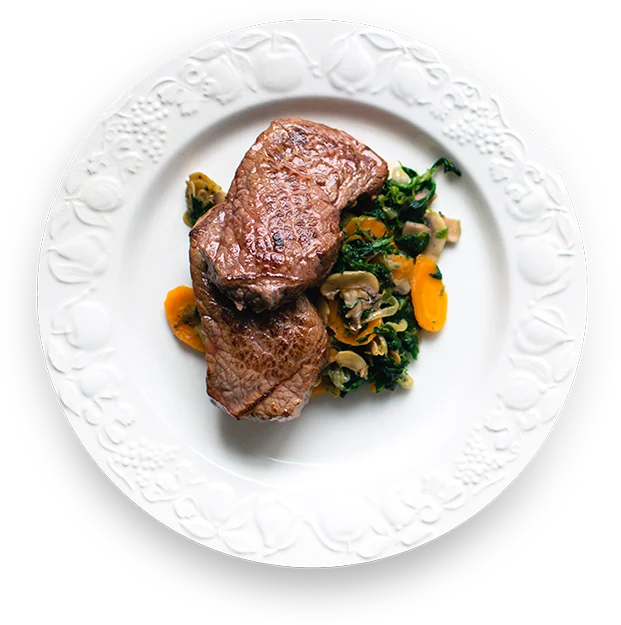
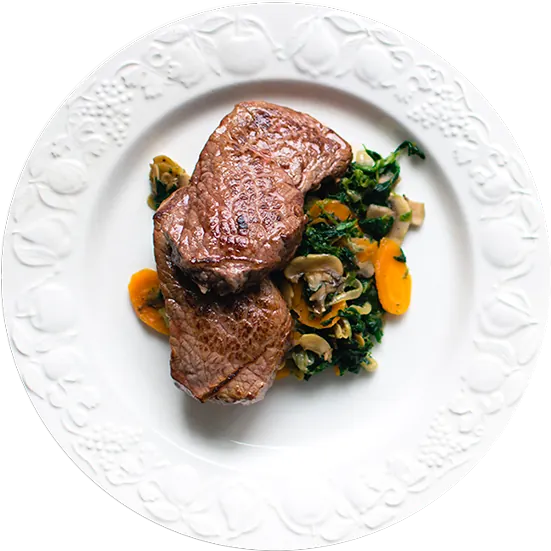
refactor: correction of comments in the code and properties of the about section

diff --git a/css/style.css b/css/style.css
@@ -53,7 +53,7 @@ html {
 
 .logo-container {
   margin-right: auto;
-  align-items: center;  
+  align-items: center;
   display: flex;
 }
 
@@ -233,90 +233,64 @@ html {
 /******************************/
 
 .about-section {
-  background: url('../gallery/banners/about-banner.webp');
-  background: url('../gallery/banners/about-banner.jpg');
+  background: url('../gallery/banners/about-banner.png');
   background-size: cover;
-  padding-top: 5.6rem;
+  padding-top: 7.6rem;
+  padding-left: 29rem;
+  width: 160rem;
   height: 71rem;
-  display: grid;
-  grid-template-columns: 1fr 1.2fr;
+  display: inline-flex;
+  justify-content: flex-start;
+  box-shadow: inset 0 0 6rem rgb(0, 0, 0, 0.1);
+  position: relative;
 }
 
-.left-column {
-  padding-top: 4.2rem;
-  padding-left: 28rem;
+.about-section:before {
+  content: '';
+  width: 100%;
+  height: 100%;
+  top: 0;
+  left: 0;
+  position: absolute;
+  background: linear-gradient(to top left, rgba(85, 85, 85, 0.2) -100%, transparent 70%);
+}
+
+.our-mission {
+  position: relative;
+  width: 42rem;
+  padding-top: 2.2rem;
   display: flex;
   flex-direction: column;
   gap: 1.2rem;
   align-items: center;
   text-align: center;
+  margin-right: 6.4rem;
 }
 
-.slogan-about-section {
+.slogan-our-mission {
   font-family: "Yeseva One", sans-serif;
   font-size: 3.6rem;
   font-weight: 400;
-  color: #e69824;
+  color: #cc9900;
 }
 
-.description-about-section {
-  padding-top: 1.2rem;
+.decoration-about {
+  width: 24.8rem;
+  margin-bottom: 1.2rem;
+}
+
+.description-our-mission {
   font-family: "Lato", sans-serif;
   font-size: 1.6rem;
-  font-weight: 700;
-  color: #696969;
-  line-height: 2.4rem;
-}
-
-.cook-img {
-  padding-top: 3.6rem;
-}
-
-.meal-img-box {
-  justify-content: left;
-  max-width: 160rem;
-  height: 71rem;
-}
-
-.banner-about-section {
-  background: url('../gallery/banners/about-banner.jpg');
-  background-size: cover;
-  padding-top: 5.6rem;
-  height: 71rem;
-  display: grid;
-  grid-template-columns: 1fr 1.2fr;
-}
-
-.left-column {
-  padding-top: 4.2rem;
-  padding-left: 28rem;
-  display: flex;
-  flex-direction: column;
-  gap: 1.2rem;
-  align-items: center;
-  text-align: center;
-}
-
-.slogan-about-section {
-  font-family: "Yeseva One", sans-serif;
-  font-size: 3.6rem;
   font-weight: 400;
-  color: #e69824;
-}
-
-.description-about-section {
-  padding-top: 1.2rem;
-  font-family: "Lato", sans-serif;
-  font-size: 1.6rem;
-  font-weight: 700;
-  color: #696969;
+  color: #4c4c4c;
   line-height: 2.4rem;
+  margin-bottom: 3.6rem;
 }
 
-.cook-img {
-  padding-top: 3.6rem;
-}
-
-.meal-img-box {
-  justify-content: left;
+.meal-img {
+  position: absolute;
+  height: 55.2rem;
+  border-radius: 100%;
+  box-shadow: 0 3rem 5rem rgb(0, 0, 0, 0.3);
 }

diff --git a/index.html b/index.html
@@ -74,21 +74,19 @@
     </main>
 
     <section class="about-section">
-      <div class="left-column">
-        <h3 class="slogan-about-section">Just the right food</h3>
+      <section class="our-mission">
+        <h3 class="slogan-our-mission">Just the right food</h3>
         <img src="gallery/decoration/decoration-2.png" class="decoration-about" alt="decoration-about">
-        <p class="description-about-section">If you’ve been to one of our restaurants, you’ve seen – and tasted –
+        <p class="description-our-mission">If you’ve been to one of our restaurants, you’ve seen – and tasted –
           what keeps our customers coming back for more. Perfect materials and freshly baked food, delicious
           Lambda cakes, muffins, and gourmet coffees make us hard to resist! Stop in today and check us out!</p>
         <img src="/gallery/food/cook-men.png" class="cook-img" alt="Cook" />
-      </div>
-      <div class="right-column">
-        <div class="meal-img-box">
-          <source srcset="/gallery/food/meals.webp" type="image/webp" />
-          <source srcset="/gallery/food/meals.png" type="image/png" />
-          <img src="/gallery/food/meals.png" class="meal-img" alt="Meal" />
-        </div>
-      </div>
+      </section>
+      <figure>
+        <source srcset="/gallery/food/meals.webp" type="image/webp" />
+        <source srcset="/gallery/food/meals.png" type="image/png" />
+        <img src="/gallery/food/meals.png" class="meal-img" alt="Meal" />
+      </figure>
     </section>
   </div>
 </body>
